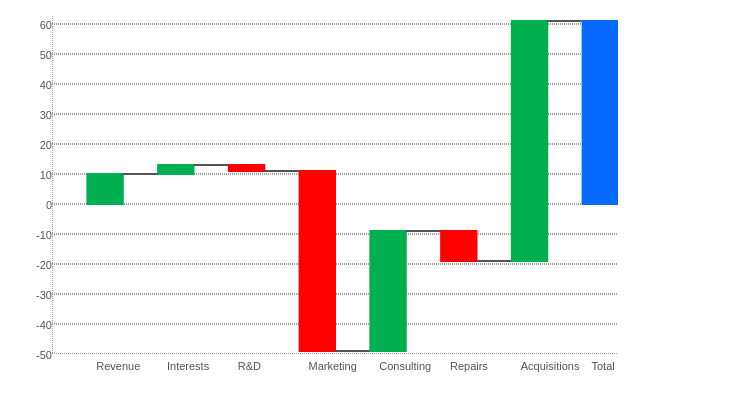
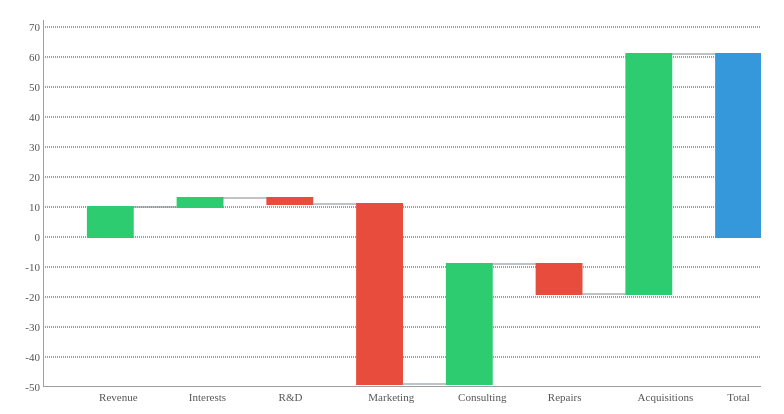
Added Unit tests (#5)

diff --git a/src/waterfall-chart/WaterFallChart.tsx b/src/waterfall-chart/WaterFallChart.tsx
@@ -1,7 +1,7 @@
 import React, { FC, useEffect, useRef, useState } from 'react';
 import { IWaterfallGraphProps } from '../types/types';
 import useWaterfallChart from './useWaterFallChart';
-import styles from './styles.module.scss';
+import classes from './styles.module.scss';
 
 import {
   DEFAULT_BAR_WIDTH,
@@ -20,9 +20,7 @@ const WaterFallChart: FC<IWaterfallGraphProps> = (props) => {
     yAxisPixelsPerUnit = DEFAULT_PIXELS_PER_Y_UNIT,
     showFinalSummary = true,
     summaryXLabel = DEFAULT_SUMMARY_LABEL,
-    summaryBarStyles = {},
-    positiveBarStyles = {},
-    negativeBarStyles = {},
+    styles = {},
     onChartClick
   } = props;
 
@@ -63,12 +61,12 @@ const WaterFallChart: FC<IWaterfallGraphProps> = (props) => {
   };
 
   return (
-    <div ref={wrapperRef} className={styles.chartWrapper}>
-      <svg className={styles.svgContainer}>
+    <div ref={wrapperRef} className={classes.chartWrapper}>
+      <svg className={classes.svgContainer}>
         {/* y-axis */}
-        <line x1='0' y1='0' x2='0' y2='100%' className={styles.axisLines} />
+        <line x1='0' y1='0' x2='0' y2='100%' className={classes.axisLines} id='yAxisLine' />
         {/* x-axis */}
-        <line x1='0' y1='100%' x2='100%' y2='100%' className={styles.axisLines} />
+        <line x1='0' y1='100%' x2='100%' y2='100%' className={classes.axisLines} id='xAxisLine' />
         {/*y axis scale lines */}
         {showYAxisScaleLines && yAxisPoints?.map((yPoint, index) => (
           <line
@@ -77,7 +75,8 @@ const WaterFallChart: FC<IWaterfallGraphProps> = (props) => {
             y1={wrapperHeight - index * yAxisPixelsPerUnit}
             x2='100%'
             y2={wrapperHeight - index * yAxisPixelsPerUnit}
-            className={`${styles.axisLines}`}
+            className={`${classes.yAxisScaleLines}`}
+            id={`yAxisScaleLine-${index}`}
           />
         ))}
         {chartElements?.map((chartElement, index) => (
@@ -88,50 +87,53 @@ const WaterFallChart: FC<IWaterfallGraphProps> = (props) => {
               height={chartElement?.barHeight}
               y={chartElement?.yVal}
               x={(2 * index + 1) * barWidthVal}
-              className={`${styles.graphBar} ${chartElement?.value >= 0 ? styles.positiveGraph : styles.negativeGraph}`}
-              style={chartElement?.value >= 0 ? positiveBarStyles : negativeBarStyles}
+              className={`${classes.graphBar} ${chartElement?.value >= 0 ? classes.positiveGraph : classes.negativeGraph}`}
+              style={chartElement?.value >= 0 ? styles?.positiveBar : styles?.negativeBar}
               onClick={(): void => onChartClick && onChartClick(chartElement)}
+              id={`chartBar-${index}`}
             />
             {showBridgeLines && (showFinalSummary || index !== chartElements?.length - 1) && (
               <line
                 key={`${chartElement?.name}-bridge-line`}
-                className={styles.bridgeLine}
+                className={classes.bridgeLine}
                 x1={(2 * index + 2) * barWidthVal}
                 y1={yValueForZeroLine - (chartElement?.cumulativeSum / yAxisScale) * yAxisPixelsPerUnit}
                 x2={(2 * index + 3) * barWidthVal}
                 y2={yValueForZeroLine - (chartElement?.cumulativeSum / yAxisScale) * yAxisPixelsPerUnit}
+                id={`chartBarBridgeLine-${index}`}
               />
             )}
           </>
         ))}
-        {showFinalSummary && (
+        {showFinalSummary && summaryBarHeight > 0 && (
           <rect
             key={FINAL_SUMMARY_GRAPH_KEY}
             width={barWidthVal}
             height={summaryChartElement?.barHeight}
             y={summaryChartElement?.yVal}
             x={(2 * chartElements?.length + 1) * barWidthVal}
-            className={`${styles.graphBar} ${styles.summaryGraphBar}`}
+            className={`${classes.graphBar} ${classes.summaryGraphBar}`}
             onClick={(): void => onChartClick && onChartClick(summaryChartElement)}
+            id='summaryBar'
           />
         )}
       </svg>
-      <div className={styles.yPoints}>
+      <div className={classes.yPoints}>
         {yAxisPoints?.map((yAxisPoint, index) => (
           <div
             key={yAxisPoint}
-            className={styles.yPoint}
-            style={{ bottom: index * yAxisPixelsPerUnit - 8 }}
+            className={classes.yPoint}
+            style={{ bottom: index * yAxisPixelsPerUnit - 7 }}
           >
             {yAxisPoint}
           </div>
         ))}
       </div>
-      <div className={styles.xPoints}>
+      <div className={classes.xPoints}>
         {transactions?.map((transaction, index) => (
           <div
             key={transaction?.label}
-            className={styles.xPoint}
+            className={classes.xPoint}
             style={{ left: (2 * index + 1.25) * barWidthVal }}
             // the 1.25 is to reduce chances for the label to overflow to right
           >
@@ -141,8 +143,8 @@ const WaterFallChart: FC<IWaterfallGraphProps> = (props) => {
         {showFinalSummary && (
           <div
             key={FINAL_SUMMARY_X_LABEL_KEY}
-            className={styles.xPoint}
-            style={{ ...summaryBarStyles, left: (2 * chartElements?.length + 1.25) * barWidthVal }}
+            className={classes.xPoint}
+            style={{ ...styles?.summaryBar, left: (2 * chartElements?.length + 1.25) * barWidthVal }}
           >
             {summaryXLabel}
           </div>

diff --git a/src/tests/waterfallChart.test.tsx b/src/tests/waterfallChart.test.tsx
@@ -1,0 +1,72 @@
+import React from 'react';
+import { render, fireEvent } from '@testing-library/react';
+import '@testing-library/jest-dom/extend-expect';
+import WaterFallChart from '../waterfall-chart';
+
+// Mock data for transactions
+const transactions = [
+  { label: 'Transaction 1', value: 100 },
+  { label: 'Transaction 2', value: -50 },
+  { label: 'Transaction 3', value: 200 }
+];
+
+describe('WaterFallChart component', () => {
+  it('renders the chart with correct bars and labels', () => {
+    // Render the WaterFallChart component with transactions as props
+    const { container, getByText } = render(<WaterFallChart transactions={transactions} />);
+
+    // Assert that the chart bars are rendered with correct heights
+    const positiveBar = container.querySelector('#chartBar-0');
+    const negativeBar = container.querySelector('#chartBar-1');
+    const summaryBar = container.querySelector('#summaryBar');
+    if (positiveBar) expect(positiveBar).toHaveAttribute('height', '50');
+    if (negativeBar) expect(negativeBar).toHaveAttribute('height', '25');
+    if (summaryBar) expect(summaryBar).toHaveAttribute('height', '75');
+
+    // Assert that the x-axis and y-axis lines are rendered
+    const xAxisLine = container.querySelector('#xAxisLine');
+    const yAxisLine = container.querySelector('#yAxisLine');
+    expect(xAxisLine).toBeInTheDocument();
+    expect(yAxisLine).toBeInTheDocument();
+
+    // Assert that the summary label is rendered
+    const summaryLabel = getByText('Total');
+    expect(summaryLabel).toBeInTheDocument();
+  });
+
+  it('calls onChartClick callback when a bar is clicked', () => {
+    // Mock callback function
+    const mockOnClick = jest.fn();
+
+    // Render the WaterFallChart component with transactions and onChartClick callback as props
+    const { container } = render(
+      <WaterFallChart transactions={transactions} onChartClick={(e: any) => mockOnClick(e)} />
+    );
+
+    // Click on a chart bar
+    const barZero = container.querySelector('#chartBar-0');
+    if (barZero) {
+      fireEvent.click(barZero);
+      // Assert that the mock callback function is called with the correct chart element
+      expect(mockOnClick).toHaveBeenCalledTimes(1);
+    }
+  });
+
+  it('does not render bridge lines when showBridgeLines prop is set to false', () => {
+    // Render the WaterFallChart component with showBridgeLines prop set to false
+    const { container } = render(<WaterFallChart transactions={transactions} showBridgeLines={false} />);
+
+    // Assert that the bridge lines are not rendered
+    const bridgeLine = container.querySelector('#chartBarBridgeLine-0');
+    expect(bridgeLine).toBeNull();
+  });
+
+  it('renders y-axis scale lines when showYAxisScaleLines prop is set to true', () => {
+    // Render the WaterFallChart component with showYAxisScaleLines prop set to true
+    const { container } = render(<WaterFallChart transactions={transactions} showYAxisScaleLines={true} />);
+
+    // Assert that y-axis scale lines are rendered
+    const yAxisScaleLines = container.querySelectorAll('[id^="yAxisScaleLine-"]');
+    if (yAxisScaleLines?.length > 0) expect(yAxisScaleLines.length).toBeGreaterThan(0);
+  });
+});

diff --git a/src/waterfall-chart/styles.module.scss b/src/waterfall-chart/styles.module.scss
@@ -19,6 +19,12 @@
   display: block;
 
   .axisLines {
+    stroke: rgb(158, 158, 158);
+    stroke-width: 2;
+    transition: all 0.3s ease-in-out;
+  }
+
+  .yAxisScaleLines {
     stroke-dasharray: 1;
     stroke: rgb(158, 158, 158);
     stroke-width: 2;
@@ -33,20 +39,20 @@
     transition: all 0.3s ease-in-out;
   }
   .summaryGraphBar {
-    fill: #076aff;
-    stroke: #076aff;
+    fill: #3498db;
+    stroke: #3498db;
   }
   .positiveGraph {
-    fill: #00b050;
-    stroke: #00b050;
+    fill: #2ecc71;
+    stroke: #2ecc71;
   }
   .negativeGraph {
-    fill: #ff0000;
-    stroke: #ff0000;
+    fill: #e74c3c;
+    stroke: #e74c3c;
   }
   .bridgeLine {
-    stroke: #545453;
-    stroke-width: 2;
+    stroke: #7f8c8d;
+    stroke-width: 1;
     z-index: 1;
   }
 }
@@ -58,7 +64,7 @@
     font-size: 11px;
     line-height: 14px;
     color: #545453;
-    right: 0px;
+    right: 3px;
     text-align: right;
   }
 }
@@ -71,7 +77,7 @@
     font-size: 11px;
     line-height: 14px;
     color: #545453;
-    top: 5px;
+    top: 3px;
     text-align: center;
   }
 }

diff --git a/jest.config.ts b/jest.config.ts
@@ -1,0 +1,23 @@
+import type {Config} from 'jest';
+
+const config :Config = {
+  // Other configuration above...
+
+  // Add the next three options if using TypeScript
+  moduleFileExtensions: ["ts", "tsx", "js", "jsx", "json", "node"],
+  preset: "ts-jest",
+  roots: ["<rootDir>/src"],
+  transform: {
+    "^.+\\.[t|j]sx?$": "ts-jest",
+    "^.+\\.svg?$": "<rootDir>/transform.js",
+    "^.+\\.scss?$": "<rootDir>/transform.js"
+  },
+  "testEnvironment": "jsdom",
+  testRegex: "(/__tests__/.*|(\\.|/)(test|spec))\\.tsx?$",
+  moduleNameMapper: {
+    "\\.(jpg|jpeg|png|gif|eot|otf|webp|svg|ttf|woff|woff2|mp4|webm|wav|mp3|m4a|aac|oga)$": "<rootDir>/scripts/testMock.js",
+    "\\.(css|less)$": "<rootDir>/scripts/testMock.js"
+  }
+};
+
+export default config;

diff --git a/src/types/types.d.ts b/src/types/types.d.ts
@@ -8,10 +8,14 @@ export type IWaterfallGraphProps = {
   yAxisPixelsPerUnit?: number;
   showFinalSummary?: boolean;
   summaryXLabel?: string;
-  summaryBarStyles?: CSSProperties;
-  positiveBarStyles?: CSSProperties;
-  negativeBarStyles?: CSSProperties;
+  styles?: ICustomizationStyles;
   onChartClick?: IOnChartClick;
+};
+
+export type ICustomizationStyles = {
+  summaryBar?: CSSProperties;
+  positiveBar?: CSSProperties;
+  negativeBar?: CSSProperties;
 };
 
 export type ITransaction = {

diff --git a/src/stories/Component.stories.tsx b/src/stories/Component.stories.tsx
@@ -47,5 +47,6 @@ WaterFallChart.args = {
       label: 'Acquisitions',
       value: 80
     }
-  ]
+  ],
+  onChartClick: (e: any) => console.log(e)
 };

diff --git a/README.md b/README.md
@@ -1,17 +1,13 @@
-  
-
-  
-
 # React Waterfall Chart
 
   
 
-<a  href="https://www.npmjs.com/package/react-waterfall-chart"><img  src="https://badgen.net/npm/v/react-waterfall-chart?color=blue"  alt="npm version"></a>  <a  href="https://www.npmjs.com/package/react-waterfall-chart"  ><img  src="https://img.shields.io/npm/dw/react-waterfall-chart?label=Downloads"  /></a>  <a  href="https://github.com/KeyValueSoftwareSystems/react-waterfall-chart"><img  src="https://github.com/KeyValueSoftwareSystems/react-waterfall-chart/actions/workflows/deploy.yml/badge.svg"  alt=""  /></a>
+<a  href="https://www.npmjs.com/package/@keyvaluesystems/react-waterfall-chart"><img  src="https://badgen.net/npm/v/@keyvaluesystems/react-waterfall-chart?color=blue"  alt="npm version"></a>  <a  href="https://www.npmjs.com/package/@keyvaluesystems/react-waterfall-chart"  ><img  src="https://img.shields.io/npm/dw/@keyvaluesystems/react-waterfall-chart?label=Downloads"  /></a>  <a  href="https://github.com/KeyValueSoftwareSystems/react-waterfall-chart"><img  src="https://github.com/KeyValueSoftwareSystems/react-waterfall-chart/actions/workflows/deploy.yml/badge.svg"  alt=""  /></a>
 
   
 
 <div  align="center">
-<img  src="src/assets/waterfall-chart-example.png"  alt=""  width="735"  height="401"/>
+<img  src="src/assets/waterfall-chart-example.png"  alt=""  width="784"  height="414"/>
 </div>
 
   
